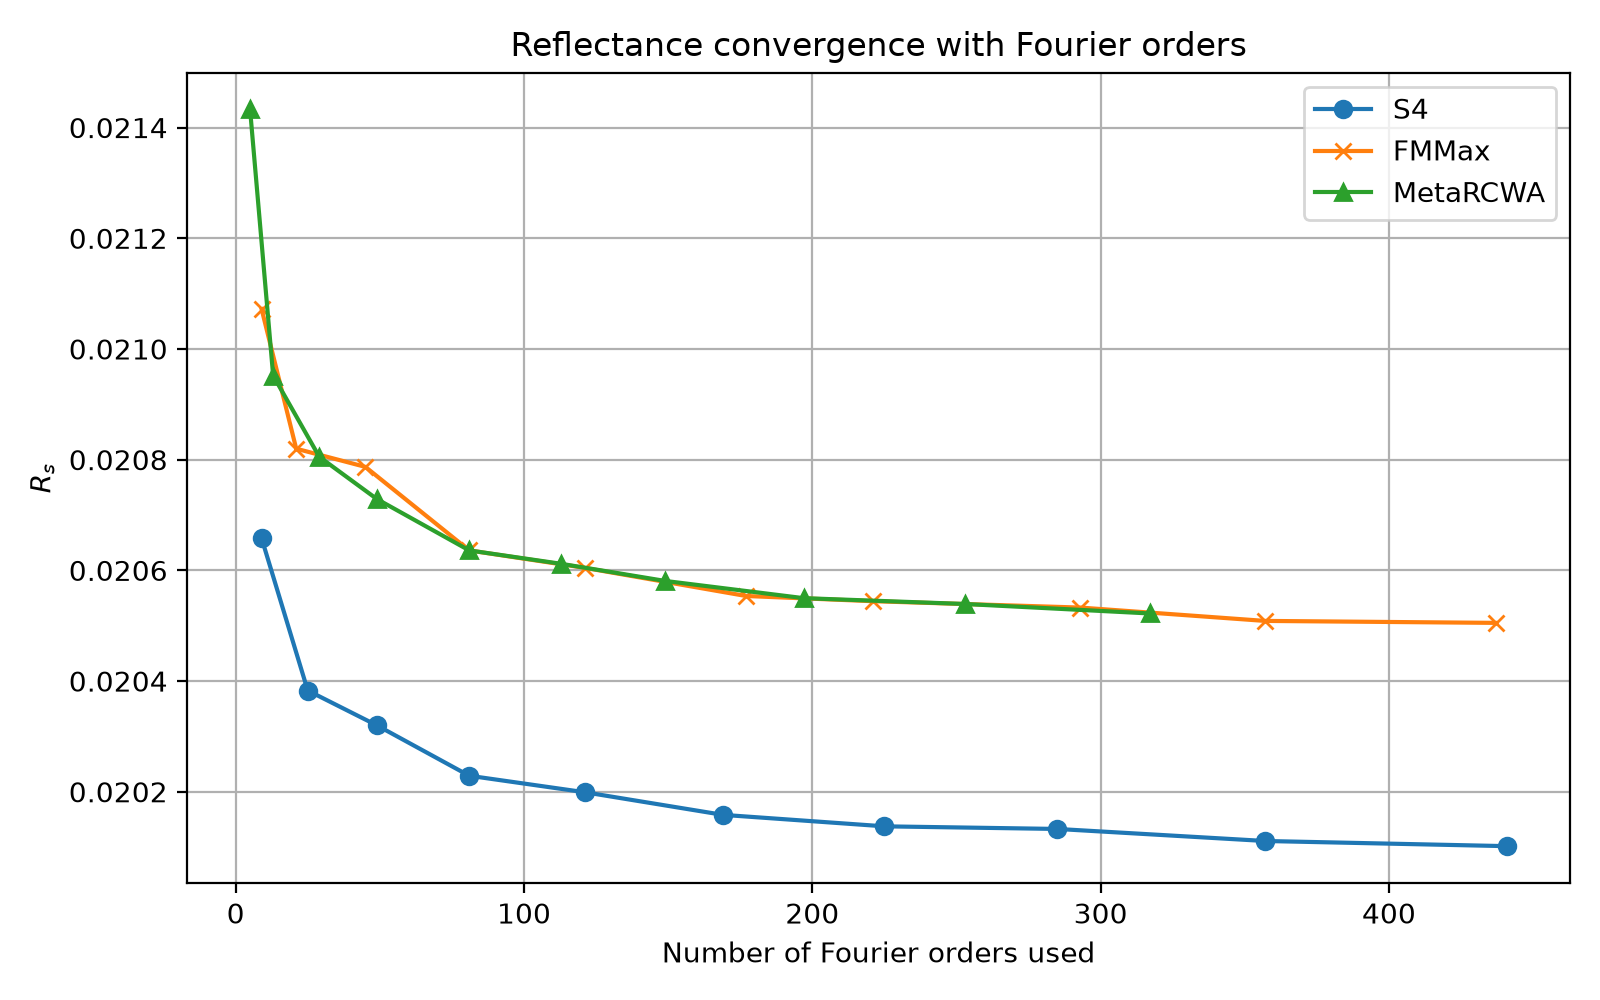
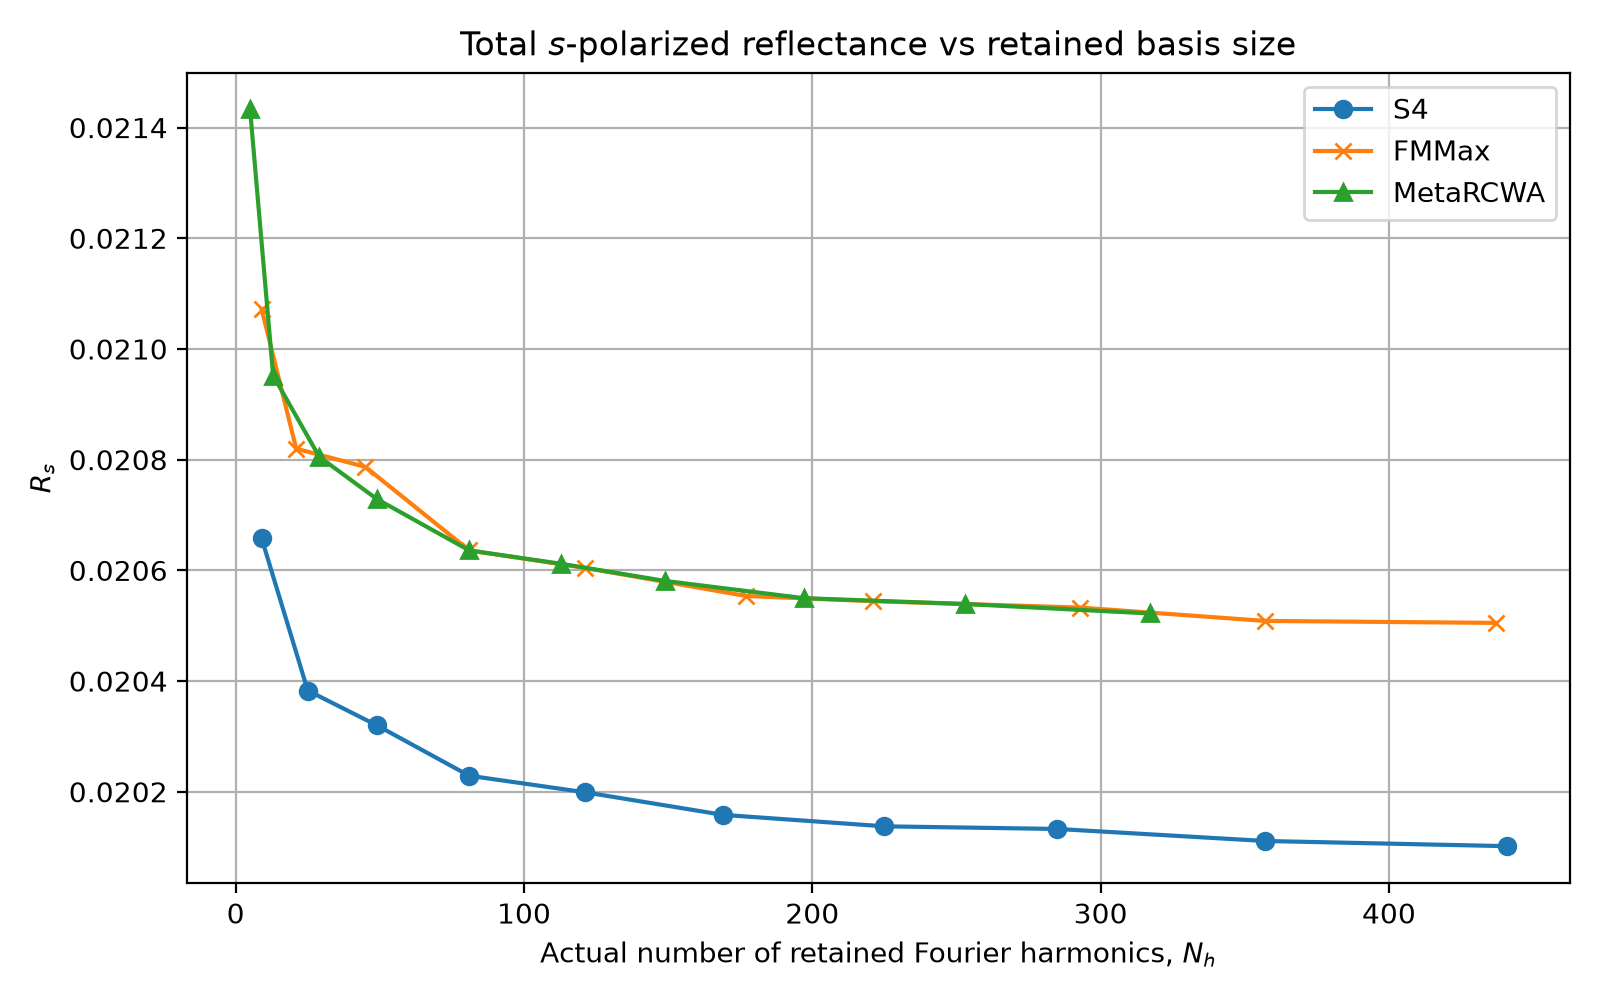
added csv output to square convergence

Changed region(s): [[0.2812, 0.031, 0.8125, 0.062], [0.3438, 0.93, 0.75, 0.961]]

diff --git a/studies/square_convergence.py b/studies/square_convergence.py
@@ -4,6 +4,7 @@ import yaml
 from src.benchmark import run_backends
 from src.config import Config
 from src.model.model_square import model
+import csv
 
 # Load the YAML configuration 
 with open("src/config.yaml") as file:
@@ -19,6 +20,8 @@ s4_Rs = []
 metarcwa_orders = []
 metarcwa_Rs = []
 
+csv_rows = []
+
 # Repeat the calculation for different Fourier orders
 for order in [1,2,3,4,5,6,7,8,9,10]:
     current_config = Config.from_dict({
@@ -28,6 +31,24 @@ for order in [1,2,3,4,5,6,7,8,9,10]:
     })
 
     results = run_backends(model, current_config)
+
+    # Add three rows: one per solver for each fourier setting
+    for backend in ("fmmax", "s4", "metarcwa"):
+        backend_results = results[backend]
+
+        row = {
+            "backend": backend,
+            "m": current_config.m,
+            "n": current_config.n,
+            "requested_orders": int(backend_results["requested_orders"]),
+            "actual_orders": int(backend_results["actual_orders"]),
+            "Rs": float(backend_results["Rs"][0,0,0]),
+            "Rp": float(backend_results["Rp"][0,0,0]),
+            "Ts": float(backend_results["Ts"][0,0,0]),
+            "Tp": float(backend_results["Tp"][0,0,0])
+        }
+
+        csv_rows.append(row)
 
     fmmax_orders.append(results["fmmax"]["actual_orders"])
     # Solvers store reflectance in an array with three axes
@@ -47,9 +68,9 @@ plt.figure(figsize=(8,5))
 plt.plot(s4_orders,s4_Rs, marker = "o", label = "S4")
 plt.plot(fmmax_orders, fmmax_Rs, marker="x", label="FMMax")
 plt.plot(metarcwa_orders,metarcwa_Rs,marker="^",label="MetaRCWA")
-plt.xlabel("Number of Fourier orders used")
+plt.xlabel(r"Actual number of retained Fourier harmonics, $N_h$")
 plt.ylabel(r"$R_s$")
-plt.title("Reflectance convergence with Fourier orders")
+plt.title("Total $s$-polarized reflectance vs retained basis size")
 plt.grid(True)
 plt.legend()
 plt.tight_layout()
@@ -58,10 +79,27 @@ project_directory = Path(__file__).resolve().parents[1]
 
 output_directory = project_directory / "outputs" / "square"
 output_directory.mkdir(parents=True, exist_ok=True)
+csv_path = output_directory / "square_convergence.csv"
+
+columns = [
+    "backend",
+    "m",
+    "n",
+    "requested_orders",
+    "actual_orders",
+    "Rs",
+    "Rp",
+    "Ts",
+    "Tp"
+]
+
+with csv_path.open("w",newline="", encoding="utf-8") as file:
+    writer = csv.DictWriter(file, fieldnames=columns)
+    writer.writeheader()
+    writer.writerows(csv_rows)
 
 plt.savefig(
     output_directory / "square_convergence.png",
     dpi=200,
 )
-
 plt.show()
